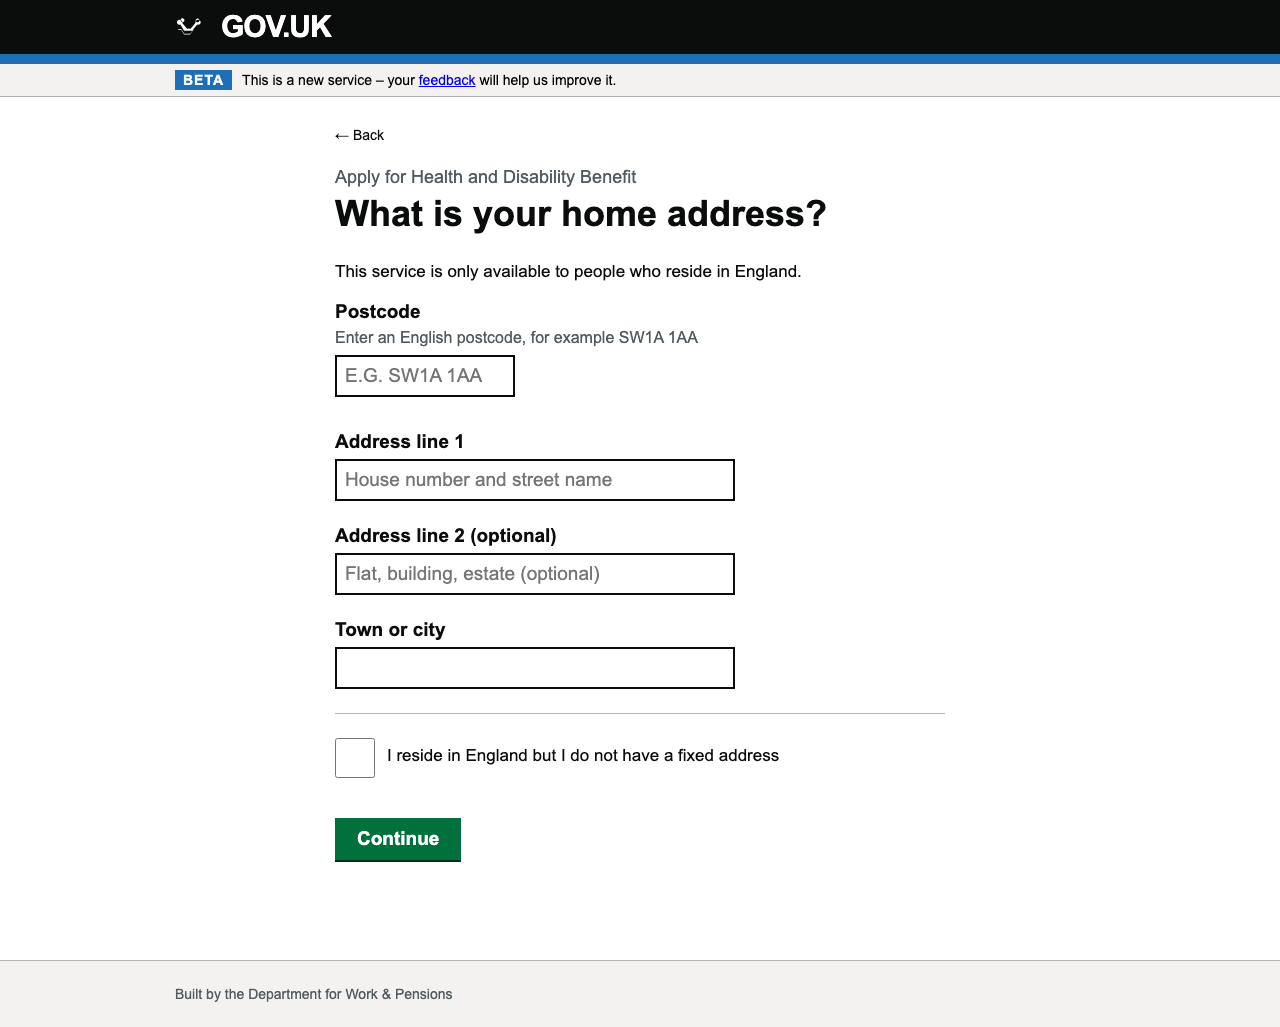
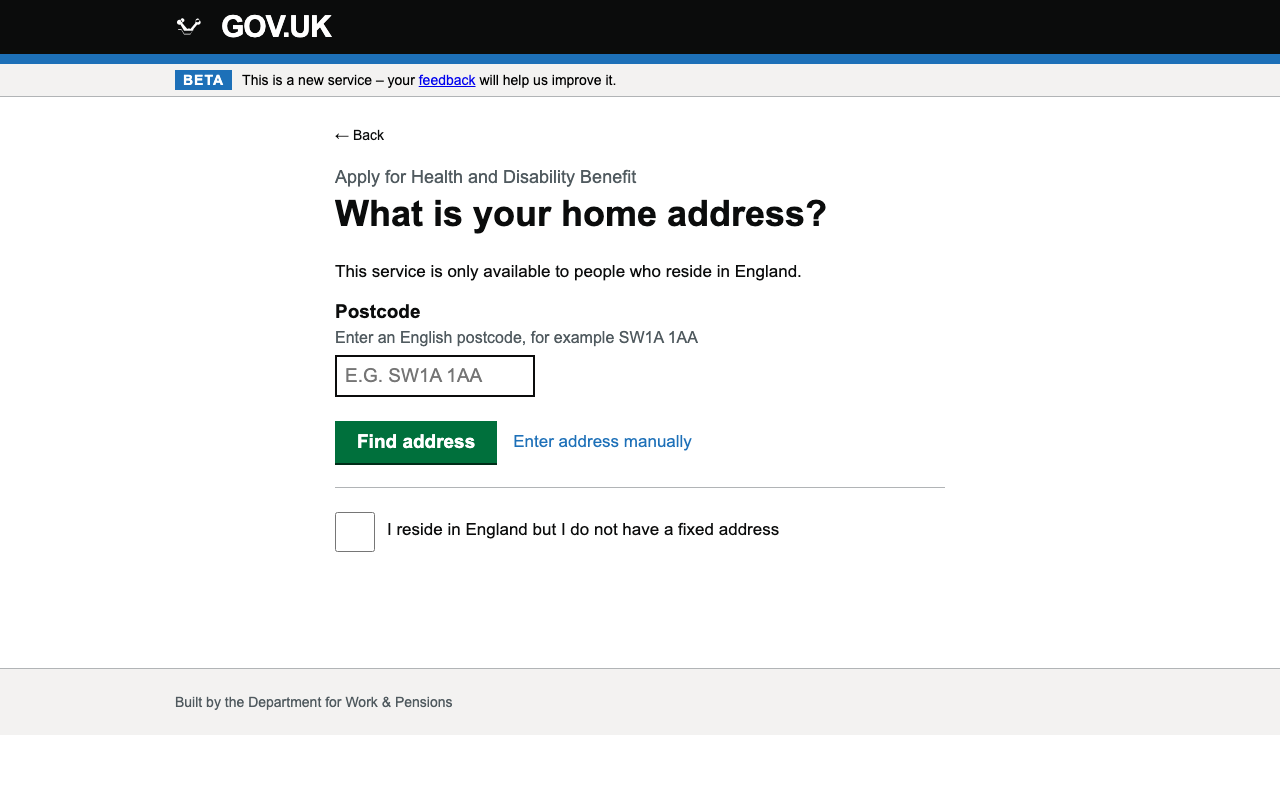
RG-05: Add postcode lookup with address selection, manual entry fallback, unusual format support

diff --git a/govuk_hdb_full_journey.html b/govuk_hdb_full_journey.html
@@ -282,30 +282,63 @@
     <p class="govuk-caption">Apply for Health and Disability Benefit</p>
     <h1 class="govuk-h1">What is your home address?</h1>
     <p class="govuk-body">This service is only available to people who reside in England.</p>
-    <span class="govuk-error" id="err-address">Enter a valid English postcode</span>
-    <div id="address-form">
+
+    <!-- Step 1: Postcode entry -->
+    <div id="address-step-postcode">
+      <span class="govuk-error" id="err-postcode" style="display:none;">Enter a valid English postcode</span>
       <label class="govuk-label" for="postcode">Postcode</label>
       <span class="govuk-label-hint">Enter an English postcode, for example SW1A 1AA</span>
-      <input class="govuk-input input-small" type="text" id="postcode" placeholder="e.g. SW1A 1AA" style="max-width:180px; text-transform:uppercase; margin-bottom:16px;">
-      <br>
-      <label class="govuk-label" for="address-line1">Address line 1</label>
-      <input class="govuk-input" type="text" id="address-line1" placeholder="House number and street name">
-      <label class="govuk-label" for="address-line2">Address line 2 (optional)</label>
-      <input class="govuk-input" type="text" id="address-line2" placeholder="Flat, building, estate (optional)">
-      <label class="govuk-label" for="address-town">Town or city</label>
-      <input class="govuk-input" type="text" id="address-town">
-    </div>
-    <hr class="govuk-section-break">
-    <div class="govuk-radio" style="margin-top:16px;"><input type="checkbox" id="no-fixed-address" onchange="toggleNoFixedAddress(this)"><label for="no-fixed-address" style="font-size:17px;">I reside in England but I do not have a fixed address</label></div>
-    <div id="no-fixed-address-info" style="display:none;">
-      <div class="govuk-inset" style="margin-top:16px;">
-        <p>You can still apply. Please provide a contact address where we can reach you, such as a shelter, support worker, friend or family member's address.</p>
+      <input class="govuk-input" type="text" id="postcode" placeholder="e.g. SW1A 1AA" style="max-width:200px; text-transform:uppercase;">
+      <div style="margin-top:16px; display:flex; align-items:center; gap:16px; flex-wrap:wrap;">
+        <button class="govuk-button" onclick="lookupPostcode()" style="margin-top:0;">Find address</button>
+        <a class="govuk-link" style="font-size:17px; cursor:pointer;" onclick="showManualEntry(null)">Enter address manually</a>
       </div>
-      <label class="govuk-label" for="contact-address">Contact address</label>
-      <span class="govuk-label-hint">This could be a shelter, hostel, or a friend or family member's address in England</span>
-      <input class="govuk-input" type="text" id="contact-address" placeholder="Enter a contact address">
+      <hr class="govuk-section-break" style="margin-top:24px;">
+      <div class="govuk-radio" style="margin-top:16px;">
+        <input type="checkbox" id="no-fixed-address" onchange="toggleNoFixedAddress(this)">
+        <label for="no-fixed-address" style="font-size:17px;">I reside in England but I do not have a fixed address</label>
+      </div>
+      <div id="no-fixed-address-info" style="display:none;">
+        <div class="govuk-inset" style="margin-top:16px;">
+          <p>You can still apply. Please provide a contact address where we can reach you, such as a shelter, support worker, friend or family member's address.</p>
+        </div>
+        <label class="govuk-label" for="contact-address">Contact address</label>
+        <span class="govuk-label-hint">This could be a shelter, hostel, or a friend or family member's address in England</span>
+        <input class="govuk-input" type="text" id="contact-address" placeholder="Enter a contact address">
+        <button class="govuk-button" onclick="submitNoFixedAddress()" style="margin-top:8px;">Continue</button>
+      </div>
     </div>
-    <button class="govuk-button" onclick="submitAddress()" style="margin-top:24px;">Continue</button>
+
+    <!-- Step 2: Address selection -->
+    <div id="address-step-select" style="display:none;">
+      <span class="govuk-error" id="err-select" style="display:none;">Select an address</span>
+      <p class="govuk-body"><strong id="postcode-display"></strong> &nbsp;<a class="govuk-link" style="font-size:17px; cursor:pointer;" onclick="resetPostcode()">Change postcode</a></p>
+      <p class="govuk-body" id="address-count"></p>
+      <fieldset style="border:0; padding:0; margin:0;">
+        <legend class="govuk-label" style="margin-bottom:12px;">Select your address</legend>
+        <div id="address-radio-list"></div>
+      </fieldset>
+      <p style="margin-top:16px;"><a class="govuk-link" style="font-size:17px; cursor:pointer;" onclick="showManualEntry(document.getElementById('postcode').value)">I cannot find my address in the list</a></p>
+      <button class="govuk-button" onclick="submitSelectedAddress()" style="margin-top:24px;">Continue</button>
+    </div>
+
+    <!-- Step 3: Manual entry (fallback) -->
+    <div id="address-step-manual" style="display:none;">
+      <span class="govuk-error" id="err-manual" style="display:none;">Enter your full address</span>
+      <p class="govuk-body" id="manual-postcode-display"></p>
+      <label class="govuk-label" for="manual-line1">Address line 1</label>
+      <span class="govuk-label-hint">For example: Flat 2/1, 14 Example Street or Ground Floor, Seaview House</span>
+      <input class="govuk-input" type="text" id="manual-line1" autocomplete="address-line1">
+      <label class="govuk-label" for="manual-line2">Address line 2 (optional)</label>
+      <input class="govuk-input" type="text" id="manual-line2" autocomplete="address-line2">
+      <label class="govuk-label" for="manual-town">Town or city</label>
+      <input class="govuk-input" type="text" id="manual-town" autocomplete="address-level2">
+      <label class="govuk-label" for="manual-postcode">Postcode</label>
+      <input class="govuk-input" type="text" id="manual-postcode" style="max-width:200px; text-transform:uppercase;" autocomplete="postal-code">
+      <p style="margin-top:8px;"><a class="govuk-link" style="font-size:17px; cursor:pointer;" onclick="resetPostcode()">← Back to postcode lookup</a></p>
+      <button class="govuk-button" onclick="submitManualAddress()" style="margin-top:16px;">Continue</button>
+    </div>
+
   </main>
   <footer class="govuk-footer"><div class="govuk-footer__inner"><p>Built by the Department for Work &amp; Pensions</p></div></footer>
 </div>
@@ -573,13 +606,52 @@
     goTo('page-address');
   }
 
-  function toggleNoFixedAddress(el) {
-    var addressForm = document.getElementById('address-form');
-    var nfaInfo = document.getElementById('no-fixed-address-info');
-    data.noFixedAddress = el.checked;
-    addressForm.style.display = el.checked ? 'none' : 'block';
-    nfaInfo.style.display = el.checked ? 'block' : 'none';
-  }
+  // Simulated postcode database — realistic English addresses inc. unusual formats
+  var postcodeDB = {
+    'SW1A1AA': [
+      '1 Downing Street, London',
+      '2 Downing Street, London',
+      'Flat 1/1, 10 Whitehall, London',
+      'Ground Floor Flat, 12 Whitehall, London',
+      '14 Whitehall, London',
+    ],
+    'E16AN': [
+      'Flat A, 1 Whitechapel High Street, London',
+      'Flat 2/1, 3 Whitechapel High Street, London',
+      '5 Whitechapel High Street, London',
+      'Unit 4, Whitechapel High Street, London',
+      '7 Whitechapel High Street, London',
+      'Ground Floor, 9 Whitechapel High Street, London',
+    ],
+    'M11AE': [
+      '1 Market Street, Manchester',
+      'Flat 3, 2 Market Street, Manchester',
+      '4 Market Street, Manchester',
+      'Suite 1, 6 Market Street, Manchester',
+      '8 Market Street, Manchester',
+    ],
+    'B11BB': [
+      '1 New Street, Birmingham',
+      'Flat 1/2, 3 New Street, Birmingham',
+      '5 New Street, Birmingham',
+      'Apartment 6, New Street House, Birmingham',
+      '7 New Street, Birmingham',
+    ],
+    'LS11BA': [
+      '1 Briggate, Leeds',
+      'Flat 2/3, 3 Briggate, Leeds',
+      '5 Briggate, Leeds',
+      'Ground Floor Flat, 7 Briggate, Leeds',
+      '9 Briggate, Leeds',
+    ],
+    'BS11TR': [
+      '1 Broadmead, Bristol',
+      'Flat A, 3 Broadmead, Bristol',
+      'Flat 1/1, 5 Broadmead, Bristol',
+      '7 Broadmead, Bristol',
+      'Upper Flat, 9 Broadmead, Bristol',
+    ],
+  };
 
   function isNonEnglandPostcode(pc) {
     var upper = pc.toUpperCase().replace(/\s/g,'');
@@ -589,22 +661,114 @@
     return false;
   }
 
-  function submitAddress() {
-    var errEl = document.getElementById('err-address');
+  function isValidPostcode(pc) {
+    var upper = pc.toUpperCase().replace(/\s/g,'');
+    return /^[A-Z]{1,2}[0-9][0-9A-Z]?[0-9][A-Z]{2}$/.test(upper);
+  }
+
+  function lookupPostcode() {
+    var pc = document.getElementById('postcode').value.trim();
+    var errEl = document.getElementById('err-postcode');
+    errEl.style.display = 'none';
     errEl.classList.remove('visible');
-    if (data.noFixedAddress) {
-      var contact = document.getElementById('contact-address').value.trim();
-      if (!contact) { errEl.textContent='Enter a contact address'; errEl.classList.add('visible'); return; }
-      data.address = 'No fixed address\nContact: '+contact;
-    } else {
-      var pc = document.getElementById('postcode').value.trim();
-      var line1 = document.getElementById('address-line1').value.trim();
-      var town = document.getElementById('address-town').value.trim();
-      if (!pc || !line1 || !town) { errEl.textContent='Enter your full address including postcode, address line 1 and town'; errEl.classList.add('visible'); return; }
-      if (isNonEnglandPostcode(pc)) { errEl.textContent='This service is only available to people who reside in England. Your postcode appears to be outside England.'; errEl.classList.add('visible'); return; }
-      var line2 = document.getElementById('address-line2').value.trim();
-      data.address = line1 + (line2?'\n'+line2:'') + '\n' + town + '\n' + pc.toUpperCase();
+    if (!isValidPostcode(pc)) {
+      errEl.textContent = 'Enter a valid English postcode, for example SW1A 1AA';
+      errEl.style.display = 'block'; errEl.classList.add('visible'); return;
     }
+    if (isNonEnglandPostcode(pc)) {
+      errEl.textContent = 'This service is only available to people who reside in England. Your postcode appears to be outside England.';
+      errEl.style.display = 'block'; errEl.classList.add('visible'); return;
+    }
+    var key = pc.toUpperCase().replace(/\s/g,'');
+    var addresses = postcodeDB[key] || null;
+    if (!addresses) {
+      // Postcode valid but not in our demo DB — go to manual
+      showManualEntry(pc);
+      return;
+    }
+    // Show address selection
+    document.getElementById('postcode-display').textContent = pc.toUpperCase();
+    document.getElementById('address-count').textContent = addresses.length + ' addresses found';
+    var list = document.getElementById('address-radio-list');
+    list.innerHTML = '';
+    addresses.forEach(function(addr, i) {
+      var div = document.createElement('div');
+      div.className = 'govuk-radio';
+      div.innerHTML = '<input type="radio" name="addr-select" id="addr-'+i+'" value="'+addr+'"><label for="addr-'+i+'">'+addr+'</label>';
+      list.appendChild(div);
+    });
+    document.getElementById('address-step-postcode').style.display = 'none';
+    document.getElementById('address-step-select').style.display = 'block';
+  }
+
+  function submitSelectedAddress() {
+    var selected = document.querySelector('input[name="addr-select"]:checked');
+    var errEl = document.getElementById('err-select');
+    errEl.style.display = 'none';
+    if (!selected) { errEl.textContent = 'Select an address'; errEl.style.display = 'block'; return; }
+    var pc = document.getElementById('postcode').value.trim().toUpperCase();
+    data.address = selected.value + '\n' + pc;
+    proceedFromAddress();
+  }
+
+  function showManualEntry(pc) {
+    document.getElementById('address-step-postcode').style.display = 'none';
+    document.getElementById('address-step-select').style.display = 'none';
+    document.getElementById('address-step-manual').style.display = 'block';
+    var pcVal = pc ? pc.toUpperCase() : '';
+    document.getElementById('manual-postcode').value = pcVal;
+    document.getElementById('manual-postcode-display').innerHTML = pcVal
+      ? 'Postcode: <strong>' + pcVal + '</strong>'
+      : '';
+  }
+
+  function submitManualAddress() {
+    var line1 = document.getElementById('manual-line1').value.trim();
+    var line2 = document.getElementById('manual-line2').value.trim();
+    var town  = document.getElementById('manual-town').value.trim();
+    var pc    = document.getElementById('manual-postcode').value.trim();
+    var errEl = document.getElementById('err-manual');
+    errEl.style.display = 'none';
+    if (!line1 || !town || !pc) {
+      errEl.textContent = 'Enter your address line 1, town or city, and postcode';
+      errEl.style.display = 'block'; return;
+    }
+    if (!isValidPostcode(pc)) {
+      errEl.textContent = 'Enter a valid postcode';
+      errEl.style.display = 'block'; return;
+    }
+    if (isNonEnglandPostcode(pc)) {
+      errEl.textContent = 'This service is only available to people who reside in England. Your postcode appears to be outside England.';
+      errEl.style.display = 'block'; return;
+    }
+    data.address = line1 + (line2 ? '\n' + line2 : '') + '\n' + town + '\n' + pc.toUpperCase();
+    proceedFromAddress();
+  }
+
+  function submitNoFixedAddress() {
+    var contact = document.getElementById('contact-address').value.trim();
+    var errEl = document.getElementById('err-postcode');
+    if (!contact) {
+      errEl.textContent = 'Enter a contact address';
+      errEl.style.display = 'block'; errEl.classList.add('visible'); return;
+    }
+    data.address = 'No fixed address\nContact: ' + contact;
+    data.noFixedAddress = true;
+    proceedFromAddress();
+  }
+
+  function resetPostcode() {
+    document.getElementById('address-step-select').style.display = 'none';
+    document.getElementById('address-step-manual').style.display = 'none';
+    document.getElementById('address-step-postcode').style.display = 'block';
+  }
+
+  function toggleNoFixedAddress(el) {
+    data.noFixedAddress = el.checked;
+    document.getElementById('no-fixed-address-info').style.display = el.checked ? 'block' : 'none';
+  }
+
+  function proceedFromAddress() {
     var dobFormatted = data.day+' '+months[data.month-1]+' '+data.year;
     document.getElementById('s-firstname').textContent = data.firstname;
     document.getElementById('s-surname').textContent = data.surname;